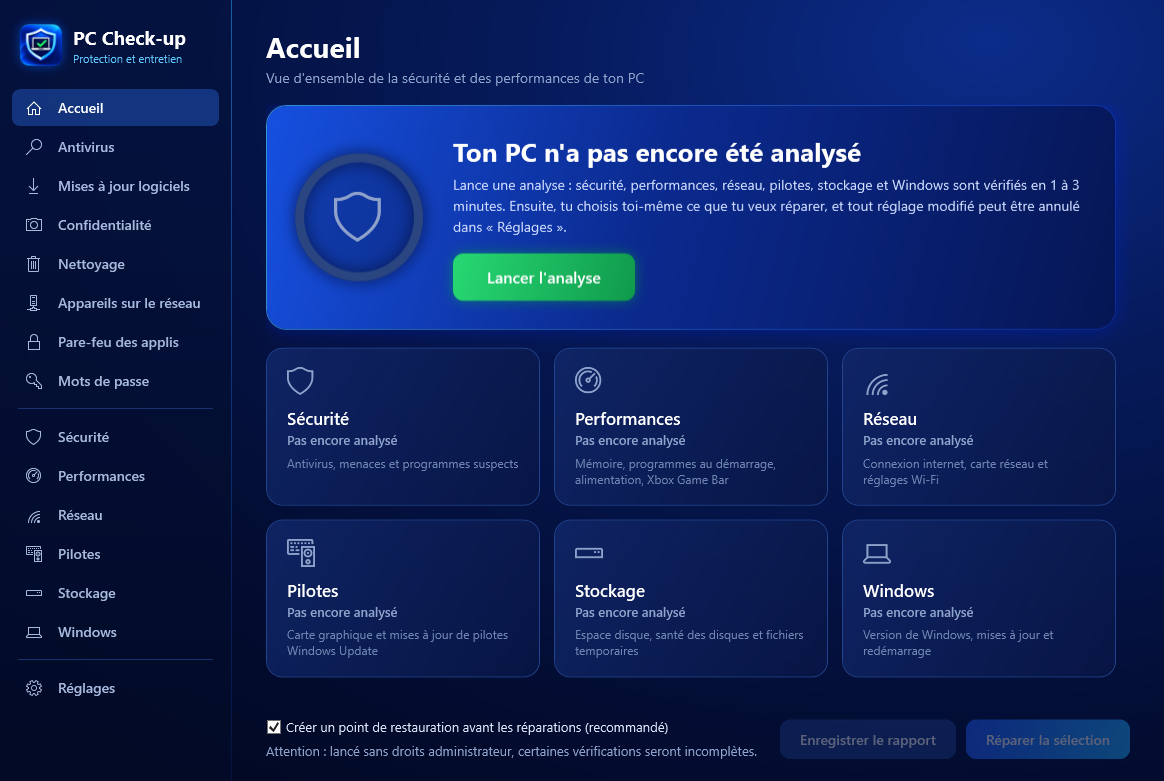
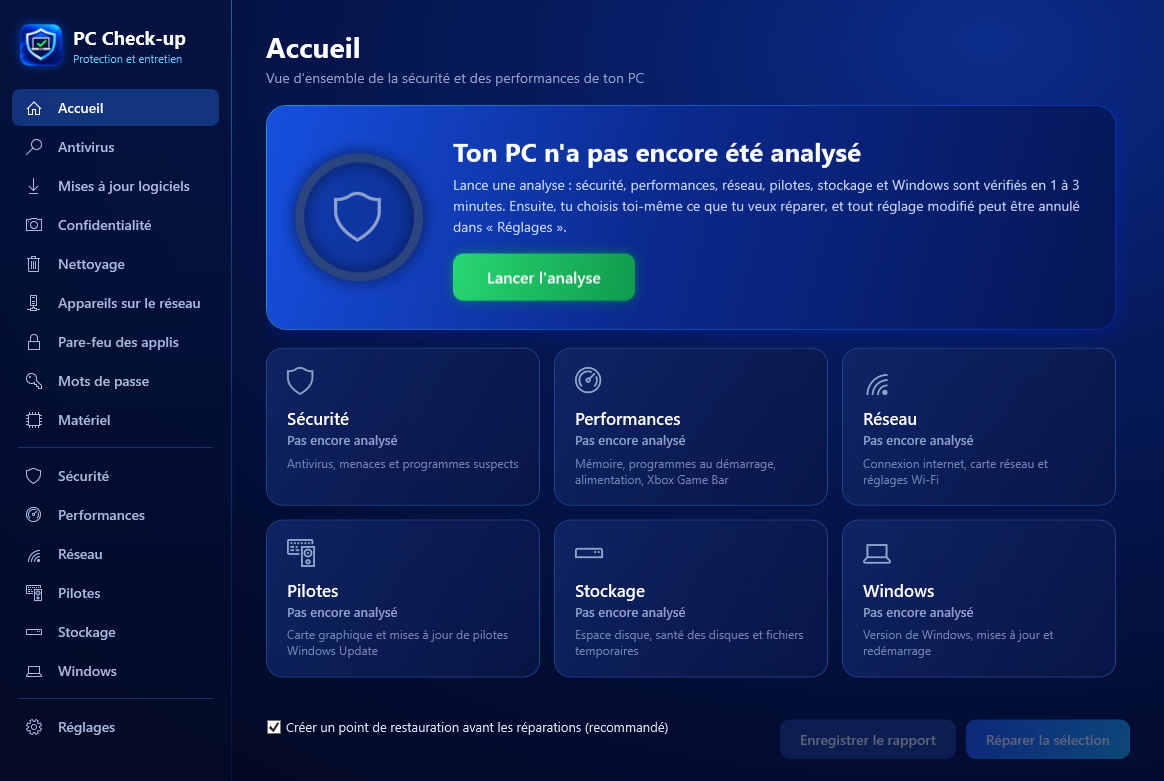
Page d'accueil en anglais (README.fr.md en français), page Matériel et langues

diff --git a/README.md b/README.md
@@ -1,57 +1,68 @@
 <div align="center">
 
-<img src="docs/logo.png" width="140" alt="Logo PC Check-up">
+<img src="docs/logo.png" width="140" alt="PC Check-up logo">
 
 # PC Check-up
 
-**Protection et entretien du PC, en un clic.**
-Antivirus, performances, réseau, pilotes, stockage et Windows : tout est vérifié, expliqué simplement, et réparable sans rien casser.
+**PC protection and care, in one click.**
+Antivirus, performance, network, drivers, storage, hardware and Windows: everything is checked, explained simply, and can be fixed without breaking anything.
 
-[![Télécharger](https://img.shields.io/badge/T%C3%A9l%C3%A9charger-PC%20Check--up-22c55e?style=for-the-badge&logo=windows&logoColor=white)](https://github.com/Tauwni/pc-checkup/releases/latest/download/PC-Checkup.zip)
+[![Download](https://img.shields.io/badge/Download-PC%20Check--up-22c55e?style=for-the-badge&logo=windows&logoColor=white)](https://github.com/Tauwni/pc-checkup/releases/latest/download/PC-Checkup.zip)
 &nbsp;
 [![Version](https://img.shields.io/github/v/release/Tauwni/pc-checkup?style=for-the-badge&label=version&color=1e5bff)](https://github.com/Tauwni/pc-checkup/releases/latest)
 &nbsp;
 ![Windows 10 / 11](https://img.shields.io/badge/Windows-10%20%7C%2011-1fb4ff?style=for-the-badge)
 
-<img src="docs/accueil.png" width="860" alt="Écran d'accueil de PC Check-up">
+**English** · [Français](README.fr.md)
+
+<img src="docs/home-en.png" width="860" alt="PC Check-up home screen">
 
 </div>
 
-## ✨ Ce que fait PC Check-up
+## ✨ What PC Check-up does
 
 | | |
 |---|---|
-| 🛡 **Sécurité** | Antivirus Microsoft Defender (rapide, complète, personnalisée, hors ligne), boucliers de protection, menaces détaillées par nom, programmes suspects |
-| ⚡ **Performances** | Programmes au démarrage, mode d'alimentation, Xbox Game Bar, mémoire, temps de démarrage |
-| 🌐 **Réseau** | Qualité de la connexion, pertes de paquets, réglages Wi-Fi anti-coupures, appareils connectés à la box |
-| 🧩 **Pilotes** | Pilotes à jour via Windows Update, carte graphique |
-| 💾 **Stockage** | Espace disque, santé des disques, nettoyage des fichiers inutiles |
-| 🪟 **Windows** | Mises à jour, version, redémarrage en attente |
-| 🔒 **Outils** | Mises à jour des logiciels, confidentialité (webcam, micro), pare-feu des applis, vérification des mots de passe |
+| 🛡 **Security** | Microsoft Defender antivirus (quick, full, custom, offline scans), protection shields, threats listed by name, suspicious programs |
+| ⚡ **Performance** | Startup programs, power plan, Xbox Game Bar, memory, boot time |
+| 🌐 **Network** | Connection quality, packet loss, anti-drop Wi-Fi settings, devices connected to your router |
+| 🧩 **Drivers** | Up-to-date drivers through Windows Update, graphics card |
+| 💾 **Storage** | Disk space, disk health, cleanup of useless files |
+| 🖥 **Hardware** | Health of each component: PC age and usage time, processor, graphics card, memory (XMP, dual channel), SSD wear and lifespan, battery, screen refresh rate |
+| 🪟 **Windows** | Updates, version, pending restart |
+| 🔒 **Tools** | Software updates, privacy (webcam, microphone), app firewall, password checker |
 
-## 💡 Chaque problème expliqué
+## 🖥 Hardware health
 
-Sous chaque point, **« En savoir plus »** explique simplement : c'est quoi, pourquoi c'est important, des exemples et quoi faire.
+Every component at a glance, with what matters: SSD wear and remaining lifespan, total hours the PC has been on, VRAM in use, memory running in single channel or without XMP, a 144 Hz screen stuck at 60 Hz, battery capacity left…
 
 <div align="center">
-<img src="docs/en-savoir-plus.png" width="860" alt="Explication détaillée d'un point de l'analyse">
+<img src="docs/hardware-en.png" width="860" alt="Hardware page">
 </div>
 
-## 🔄 Toujours annulable
+## 💡 Every problem explained
 
-- Rien n'est modifié sans ton accord : tu coches ce que tu veux réparer.
-- Un point de restauration Windows est créé avant chaque réparation.
-- Chaque réglage se remet comme avant en un clic, et un bouton remet **tout** comme avant PC Check-up.
-- L'antivirus, le pare-feu, SmartScreen et l'UAC ne sont jamais désactivés.
+Under each item, **« Learn more »** explains it simply: what it is, why it matters, examples and what to do.
+
+## 🌍 Languages
+
+English, Français, Español, Deutsch. PC Check-up uses the Windows language automatically, and you can change it in **Settings › Language**.
+
+## 🔄 Always reversible
+
+- Nothing is changed without your consent: you tick what you want to fix.
+- A Windows restore point is created before each repair.
+- Each setting can be put back in one click, and one button puts **everything** back as it was before PC Check-up.
+- The antivirus, firewall, SmartScreen and UAC are never turned off.
 
 ## 📥 Installation
 
-1. [Télécharge le zip](https://github.com/Tauwni/pc-checkup/releases/latest/download/PC-Checkup.zip), fais un clic droit dessus > **Extraire tout**.
-2. Double-clique sur **PC-Checkup.exe** et accepte la demande d'autorisation de Windows.
-3. Si Windows affiche « Windows a protégé votre ordinateur » : **Informations complémentaires** > **Exécuter quand même** (le logiciel n'est pas signé).
+1. [Download the zip](https://github.com/Tauwni/pc-checkup/releases/latest/download/PC-Checkup.zip), right-click it > **Extract All**.
+2. Double-click **PC-Checkup.exe** and accept the Windows permission prompt.
+3. If Windows shows « Windows protected your PC »: **More info** > **Run anyway** (the app isn't signed).
 
-Le logiciel se met ensuite **à jour tout seul** : à chaque ouverture, il propose les nouvelles versions publiées ici, avec la liste des nouveautés.
+The app then **updates itself**: each time it opens, it offers the new versions published here, with the list of what's new.
 
-## 🔐 Vie privée
+## 🔐 Privacy
 
-PC Check-up n'envoie **aucune donnée** sur toi ou ton PC : pas de statistiques, pas de compte. Il contacte seulement GitHub pour vérifier les mises à jour, et la vérification des mots de passe n'envoie jamais le mot de passe (seulement un petit morceau de son empreinte chiffrée).
+PC Check-up sends **no data** about you or your PC: no statistics, no account. It only contacts GitHub to check for updates, and the password checker never sends the password (only a small piece of its encrypted fingerprint).

diff --git a/README.fr.md b/README.fr.md
@@ -1,0 +1,72 @@
+<div align="center">
+
+<img src="docs/logo.png" width="140" alt="Logo PC Check-up">
+
+# PC Check-up
+
+**Protection et entretien du PC, en un clic.**
+Antivirus, performances, réseau, pilotes, stockage, matériel et Windows : tout est vérifié, expliqué simplement, et réparable sans rien casser.
+
+[![Télécharger](https://img.shields.io/badge/T%C3%A9l%C3%A9charger-PC%20Check--up-22c55e?style=for-the-badge&logo=windows&logoColor=white)](https://github.com/Tauwni/pc-checkup/releases/latest/download/PC-Checkup.zip)
+&nbsp;
+[![Version](https://img.shields.io/github/v/release/Tauwni/pc-checkup?style=for-the-badge&label=version&color=1e5bff)](https://github.com/Tauwni/pc-checkup/releases/latest)
+&nbsp;
+![Windows 10 / 11](https://img.shields.io/badge/Windows-10%20%7C%2011-1fb4ff?style=for-the-badge)
+
+[English](README.md) · **Français**
+
+<img src="docs/accueil.png" width="860" alt="Écran d'accueil de PC Check-up">
+
+</div>
+
+## ✨ Ce que fait PC Check-up
+
+| | |
+|---|---|
+| 🛡 **Sécurité** | Antivirus Microsoft Defender (rapide, complète, personnalisée, hors ligne), boucliers de protection, menaces détaillées par nom, programmes suspects |
+| ⚡ **Performances** | Programmes au démarrage, mode d'alimentation, Xbox Game Bar, mémoire, temps de démarrage |
+| 🌐 **Réseau** | Qualité de la connexion, pertes de paquets, réglages Wi-Fi anti-coupures, appareils connectés à la box |
+| 🧩 **Pilotes** | Pilotes à jour via Windows Update, carte graphique |
+| 💾 **Stockage** | Espace disque, santé des disques, nettoyage des fichiers inutiles |
+| 🖥 **Matériel** | Santé de chaque composant : âge et temps d'utilisation du PC, processeur, carte graphique, mémoire (XMP, double canal), usure et durée de vie des SSD, batterie, fréquence des écrans |
+| 🪟 **Windows** | Mises à jour, version, redémarrage en attente |
+| 🔒 **Outils** | Mises à jour des logiciels, confidentialité (webcam, micro), pare-feu des applis, vérification des mots de passe |
+
+## 🖥 Santé du matériel
+
+Chaque composant d'un coup d'œil, avec ce qui compte : usure et durée de vie restante des SSD, heures d'utilisation du PC, mémoire vidéo utilisée, mémoire en simple canal ou sans XMP, écran 144 Hz bloqué en 60 Hz, capacité restante de la batterie…
+
+<div align="center">
+<img src="docs/materiel.png" width="860" alt="Page Matériel">
+</div>
+
+## 💡 Chaque problème expliqué
+
+Sous chaque point, **« En savoir plus »** explique simplement : c'est quoi, pourquoi c'est important, des exemples et quoi faire.
+
+<div align="center">
+<img src="docs/en-savoir-plus.png" width="860" alt="Explication détaillée d'un point de l'analyse">
+</div>
+
+## 🌍 Langues
+
+Français, English, Español, Deutsch. PC Check-up prend automatiquement la langue de Windows, et elle se change dans **Réglages › Langue**.
+
+## 🔄 Toujours annulable
+
+- Rien n'est modifié sans ton accord : tu coches ce que tu veux réparer.
+- Un point de restauration Windows est créé avant chaque réparation.
+- Chaque réglage se remet comme avant en un clic, et un bouton remet **tout** comme avant PC Check-up.
+- L'antivirus, le pare-feu, SmartScreen et l'UAC ne sont jamais désactivés.
+
+## 📥 Installation
+
+1. [Télécharge le zip](https://github.com/Tauwni/pc-checkup/releases/latest/download/PC-Checkup.zip), fais un clic droit dessus > **Extraire tout**.
+2. Double-clique sur **PC-Checkup.exe** et accepte la demande d'autorisation de Windows.
+3. Si Windows affiche « Windows a protégé votre ordinateur » : **Informations complémentaires** > **Exécuter quand même** (le logiciel n'est pas signé).
+
+Le logiciel se met ensuite **à jour tout seul** : à chaque ouverture, il propose les nouvelles versions publiées ici, avec la liste des nouveautés.
+
+## 🔐 Vie privée
+
+PC Check-up n'envoie **aucune donnée** sur toi ou ton PC : pas de statistiques, pas de compte. Il contacte seulement GitHub pour vérifier les mises à jour, et la vérification des mots de passe n'envoie jamais le mot de passe (seulement un petit morceau de son empreinte chiffrée).
